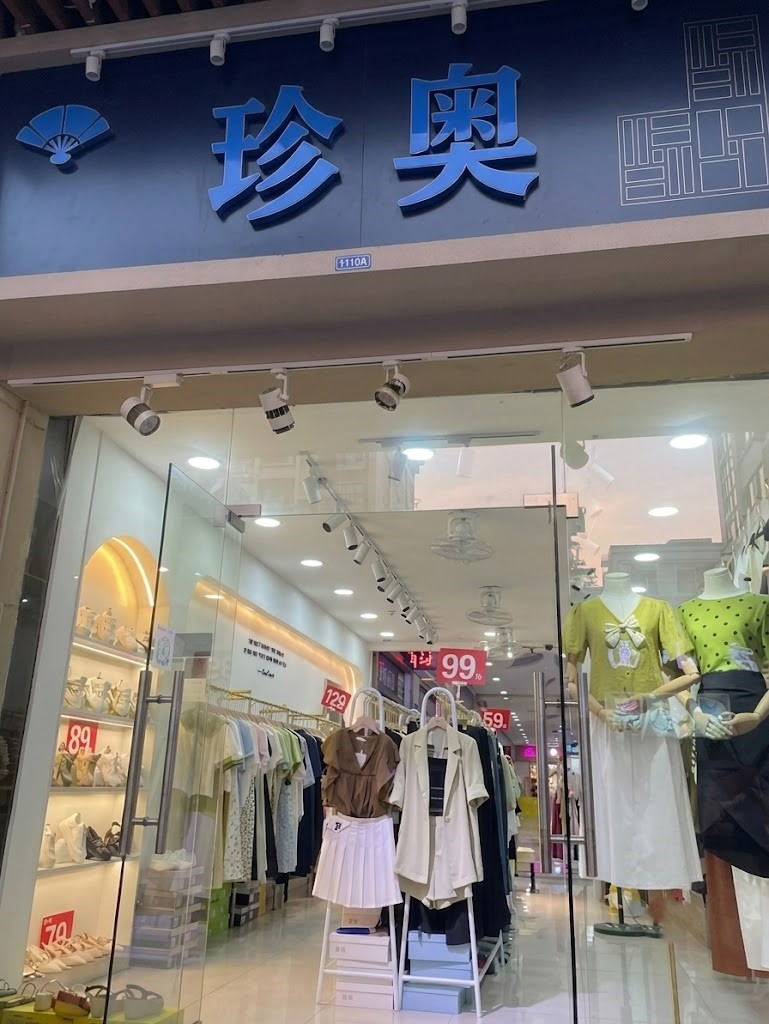
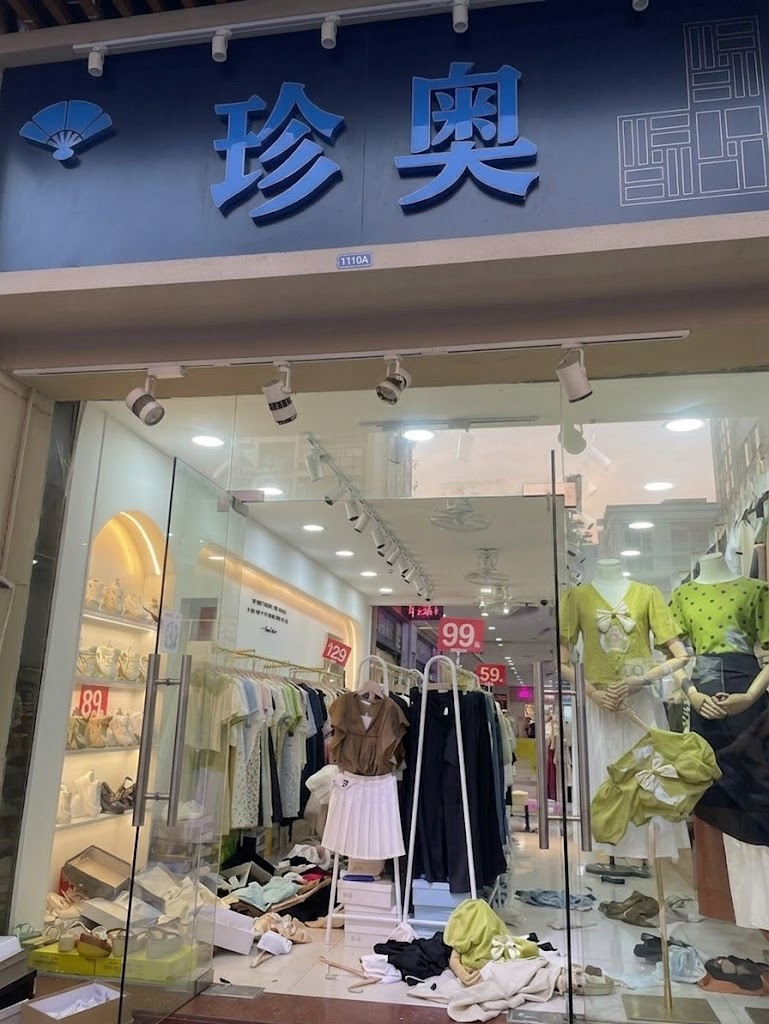
auto: 2026-08-02 17:00

diff --git a/story/安盛街.js b/story/安盛街.js
@@ -935,15 +935,15 @@ Object.assign(storyData, {
   // ==================== 安盛街-服装店 ====================
   "安盛街-服装店": {
     image: function(vars) {
-      if (vars.weather === "雨") {
-        var f = timeImage({morning: "images/placeholder.png"
-});
-        return f(vars);
+      if (vars.weather == "雨") {
+        return "images/安盛街/服装店/门口-雨天.jpg";
       }
-      var f = timeImage({morning: "images/placeholder.png"
-});
+      var f = timeImage({
+        morning: "images/安盛街/服装店/门口.jpg",
+        night: "images/安盛街/服装店/门口-night.jpg"
+      });
       return f(vars);
-    }, /* TODO: images/安盛街/服装店*.png */
+    }, 
     text: "你走进服装店。这家小店叫做珍奥，平时只是路过，从来没进去看过。模特假人歪倒在地上，衣物被扯得乱七八糟。试衣间的帘子半开着，里面黑漆漆的，什么都看不清。\n\
 这家店看起来已经被洗劫过了，货架被推得东倒西歪。",
     choices: [
@@ -977,7 +977,7 @@ Object.assign(storyData, {
   },
 
   "安盛街-服装店-304柜": {
-    image: "images/安盛街/服装店/304柜.jpg" /* TODO: images/安盛街/服装店-304柜.png */,
+    image: "images/安盛街/服装店/304柜.jpg",
     onEnter: { set: { positionAfterOperation: "安盛街-服装店-304柜" } },
     text: function(vars) {
       if (vars._visit['安盛街-服装店-304柜-换衣']) {
@@ -1105,7 +1105,7 @@ Object.assign(storyData, {
   },
 
   "安盛街-服装店收银台": {
-    image: "images/placeholder.png" /* TODO: images/anshengStreet/clothingCounter.png */,
+    image: "images/安盛街/服装店/收银台.jpg",
     text: "你翻找收银台。收银机已经被撬开了，里面一分钱都没有——但这年头钱也没什么用。柜台下面的抽屉半开着，里面塞着一堆票据和杂物。",
     choices: [
       {
